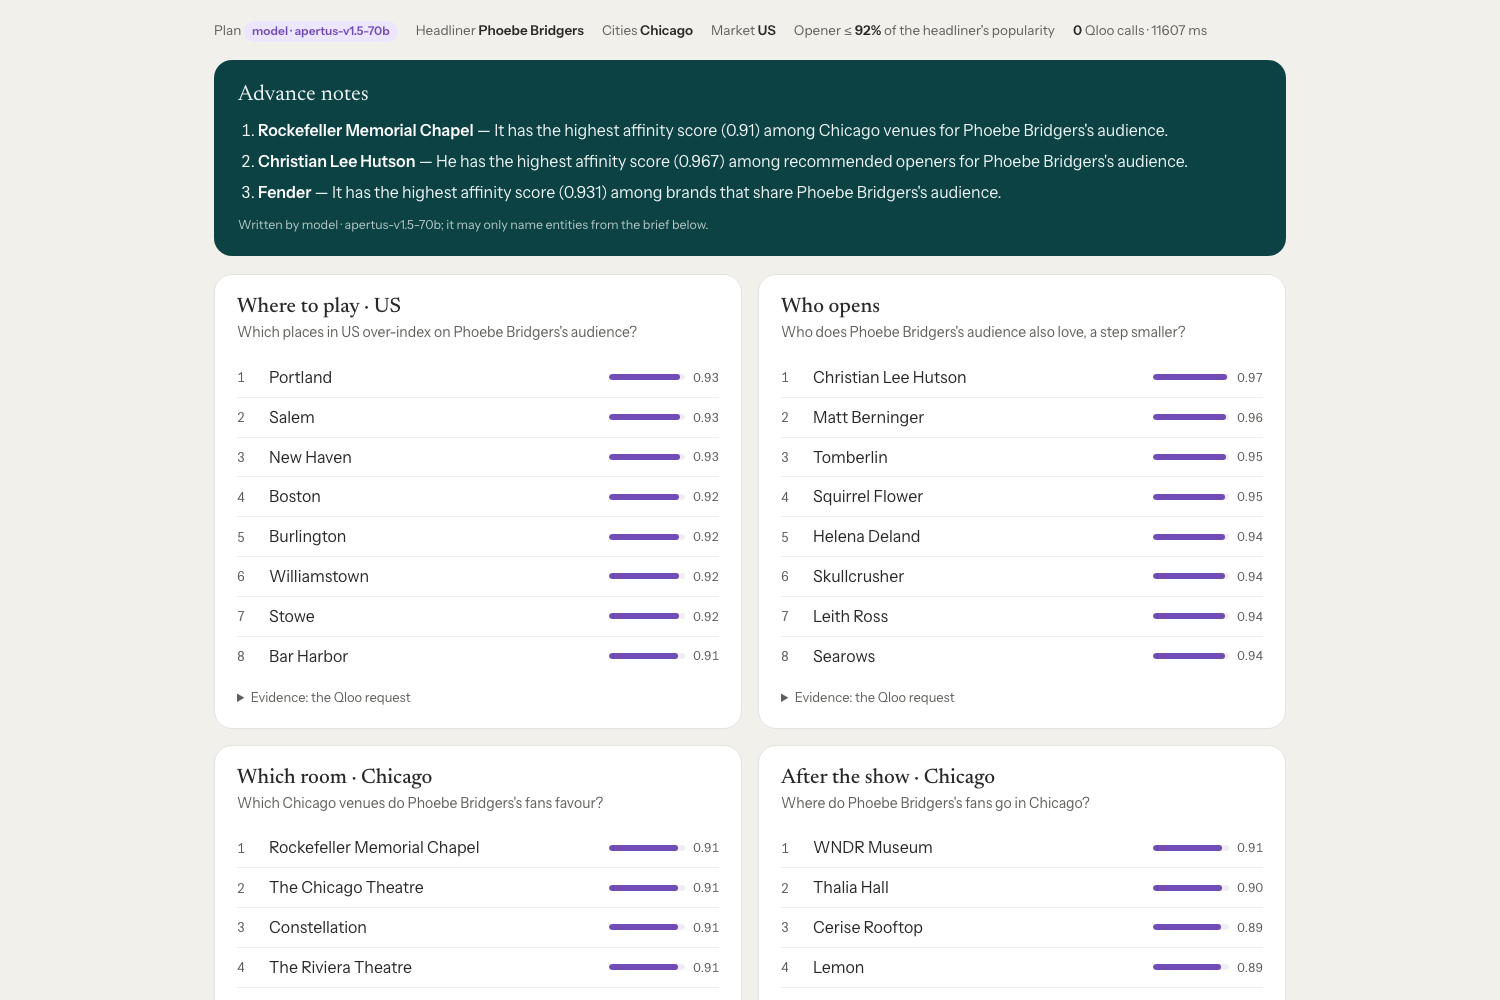
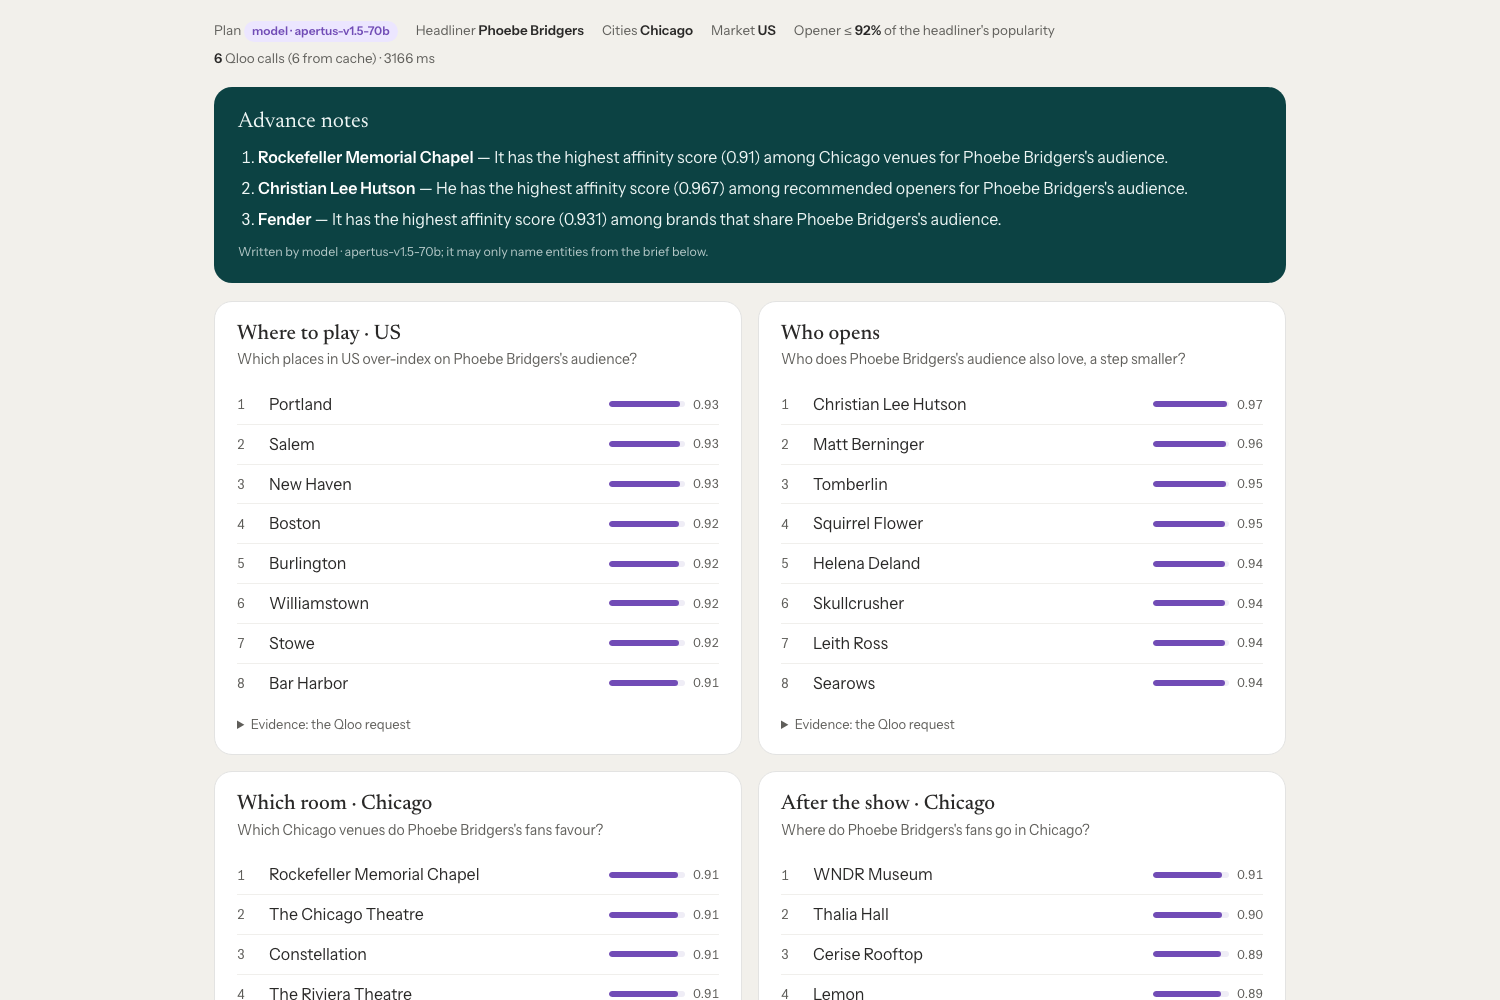
Bars scale to each list's own range

Changed region(s): [[0.1227, 0.031, 0.8587, 1.0], [0.7667, 0.837, 0.8587, 1.0], [0.3987, 0.837, 0.4907, 1.0]]

diff --git a/src/advance/page.html b/src/advance/page.html
@@ -134,7 +134,8 @@ $("cmp").innerHTML = PROOF.map(([k, t, l, g]) => `<span class="k">Found in ${k}<
 const pct = v => v == null ? "—" : v.toFixed(2);
 
 function section(s) {
-  const w = a => Math.max(4, Math.round(((a ?? 0) - 0.7) / 0.3 * 100));   // bars start at 0.70, where Qloo's scores begin to mean a match
+  const v = s.lines.map(l => l.affinity ?? 0), hi = Math.max(...v), floor = Math.max(0, Math.min(...v) - 0.15);
+  const w = a => hi > floor ? Math.round(((a ?? 0) - floor) / (hi - floor) * 100) : 100;   // the longest bar is the best score in this list
   const rows = s.lines.map((l, i) => `<div class="row"><span class="n">${i + 1}</span><span class="name" title="${esc(l.name)}">${esc(l.name)}</span>
     <span class="aff"><span class="bar"><i style="width:${w(l.affinity)}%"></i></span>${pct(l.affinity)}</span></div>`).join("");
   return `<article class="card"><h3>${esc(s.title)}</h3><p class="q">${esc(s.question)}</p>
